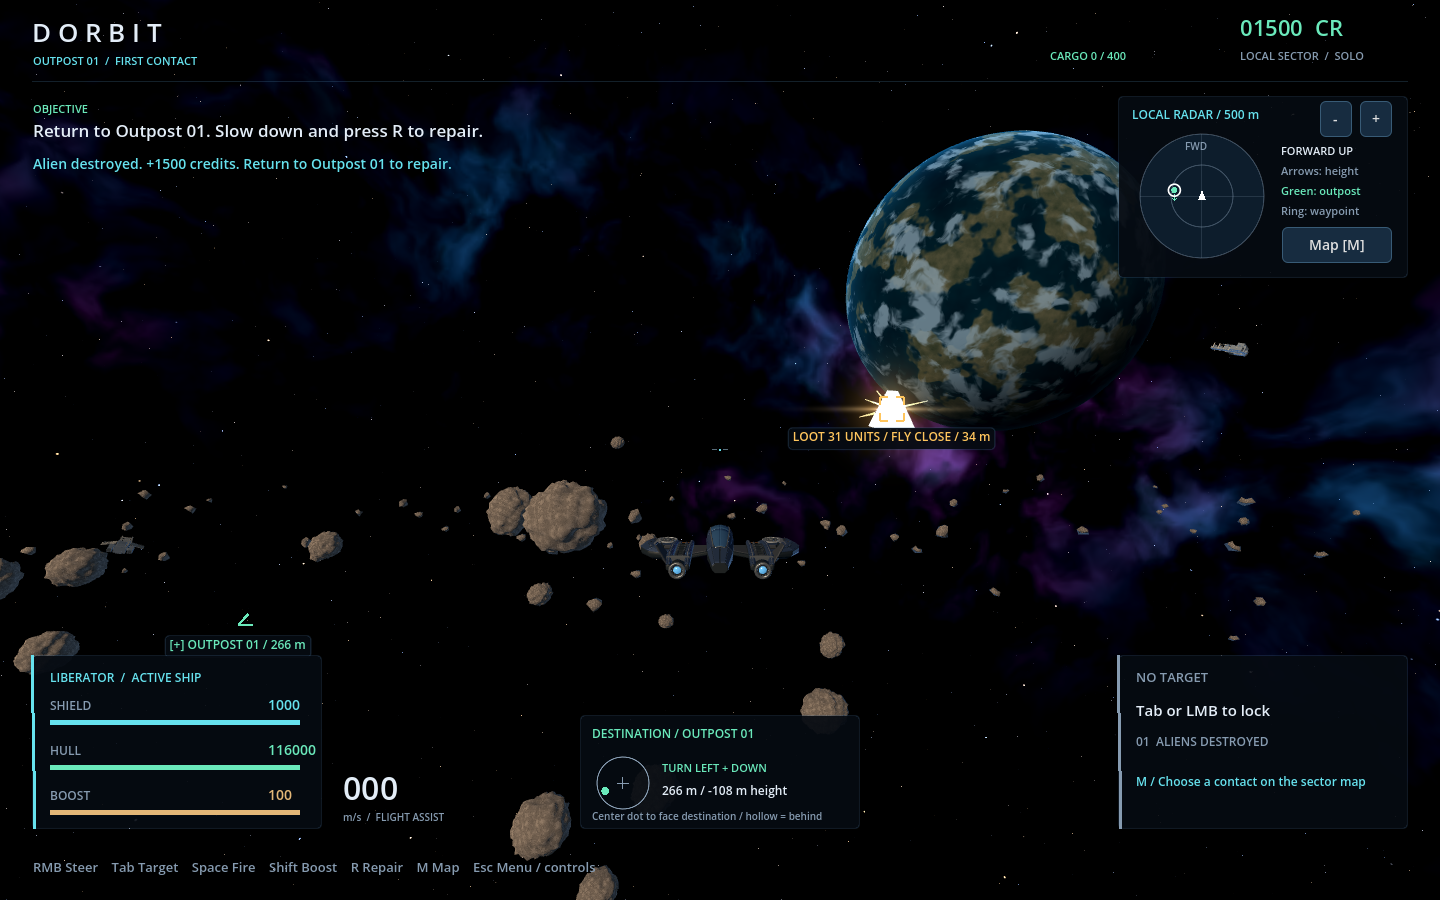
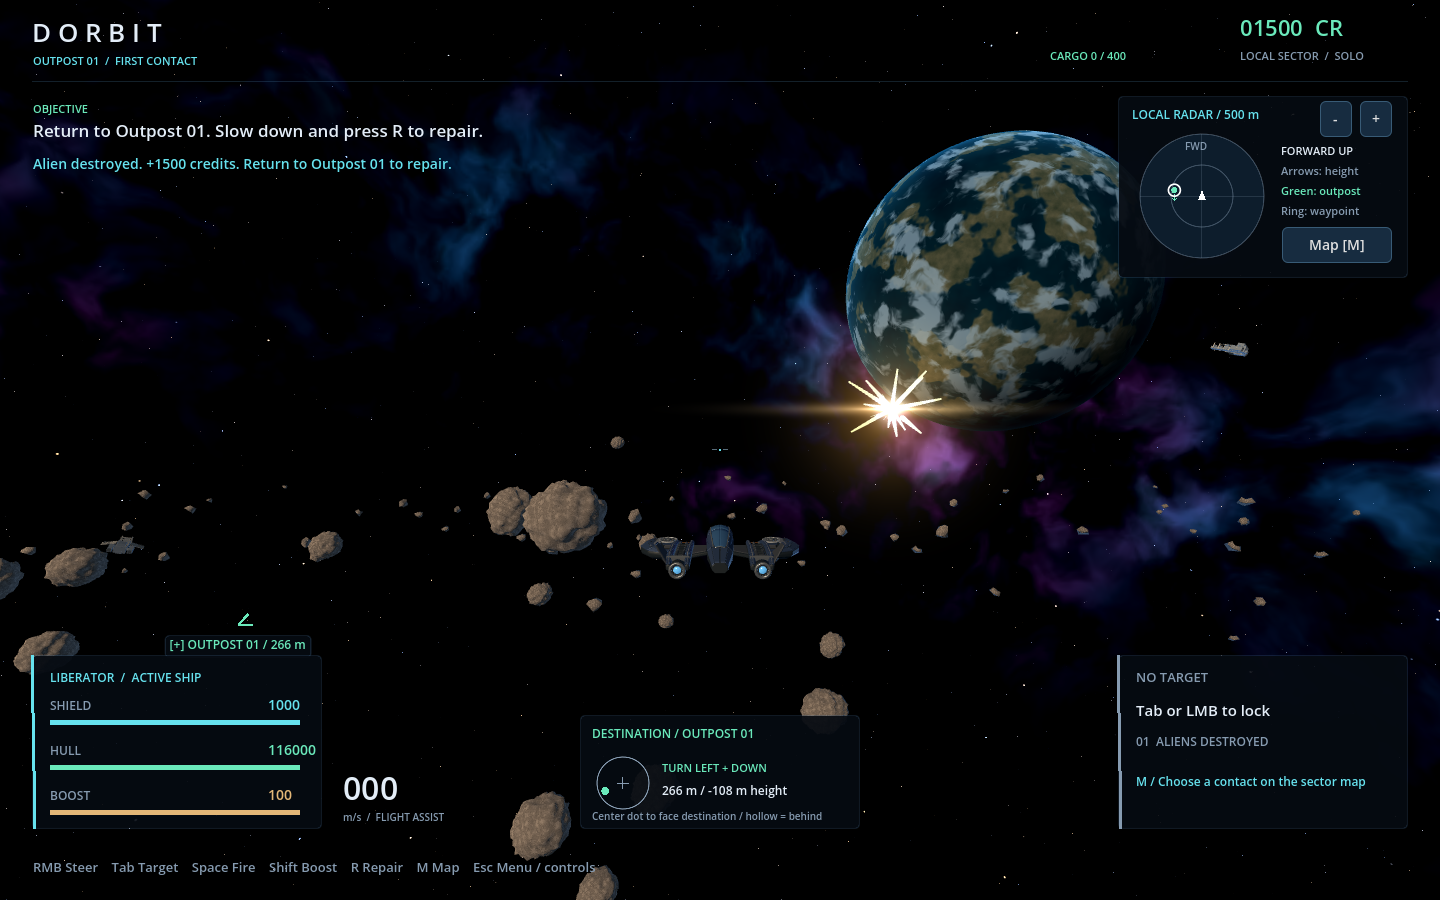
feat: scale destruction blasts and reveal loot afterward

Changed region(s): [[0.5312, 0.3422, 0.7188, 0.56]]

diff --git a/README.md b/README.md
@@ -464,11 +464,13 @@ Review captures: [range](docs/feedback/feedback-range.png), [arc](docs/feedback/
 
 Settings > Audio opens master and effects volume controls and mute. Preferences stay on this device in `user://audio.cfg`. All cues are original procedural PCM generated by `scripts/feedback_audio.gd`; no third-party audio assets or audio attribution are required. Up to six sounds play at once, with per-cue repetition limits and attenuation to silence beyond 350 m.
 
-Lasers now use bright cores, soft additive halos and brief muzzle/contact flashes. Pilot fire is cyan; hostile fire is orange-red. Hits ripple across curved shields and throw hot, cooling sparks from hulls; destruction produces a flash and radial streaks. The effects work in Compatibility rendering without bloom. Each short-lived effect root owns its meshes and animations, with a 64-root ordinary limit and a destruction reserve to 80. Incoming laser cues provide cosmetic contact direction; missing or reordered cues fall back to the camera-facing side. Damage and network rules are unchanged.
+Lasers now use bright cores, soft additive halos and brief muzzle/contact flashes. Pilot fire is cyan; hostile fire is orange-red. Hits ripple across curved shields and throw hot, cooling sparks from hulls. Larger destruction flashes, flares and radial streaks scale to the destroyed ship's modeled diameter and last 1.2 seconds. Scouts produce smaller blasts than Sentinels and Heavies; player hulls use their catalog diameter (3.5 m for Phoenix, 7 m by default). The loot box and its HUD marker appear after the explosion has gone. The effects work in Compatibility rendering without bloom. Each short-lived effect root owns its meshes and animations, with a 64-root ordinary limit and a destruction reserve to 80. Incoming laser cues provide cosmetic contact direction; missing or reordered cues fall back to the camera-facing side. Damage, rewards and loot collection remain unchanged. The reliable destruction cue now carries its diameter, so clients and servers need matching updated builds.
 
-Review the [laser and shield hit](docs/feedback/combat-laser-shield-1440.png), [hull sparks](docs/feedback/combat-laser-hull-1440.png), [incoming fire](docs/feedback/combat-hostile-1440.png) and [destruction](docs/feedback/combat-destruction-1440.png). Run `res://tests/combat_effects_playthrough.gd` with a renderer for fresh 960 x 600 and 1440 x 900 captures under `build/validation`. It exercises real shot validation, shield/hull damage, death and rewards. The headless combat-effects test runs in both check helpers and covers moving hits, death visibility, cleanup, saturated budgets and unchanged combat state.
+Review the [laser and shield hit](docs/feedback/combat-laser-shield-1440.png), [hull sparks](docs/feedback/combat-laser-hull-1440.png), [incoming fire](docs/feedback/combat-hostile-1440.png), [larger destruction](docs/feedback/combat-destruction-1440.png) and [loot revealed afterward](docs/feedback/combat-loot-1440.png). Run `res://tests/combat_effects_playthrough.gd` with a renderer for fresh 960 x 600 and 1440 x 900 captures under `build/validation`. It exercises real shot validation, shield/hull damage, death, rewards and delayed loot presentation. The headless combat-effects test runs in both check helpers and covers moving hits, death visibility, cleanup, saturated budgets, modeled destruction size and unchanged combat state. Resource integration checks cover replicated explosion sizes and loot visibility on real ENet clients.
 
 The October rework passed the full Windows headless check, 12 focused effect assertions, the rendered gallery at both sizes, and 13 rendered protocol/shot assertions. The hunt-and-repair replay passed at 2560 x 1440 with an isolated settings profile (13.42 ms average / 16.05 ms p95). The busy presentation fixture passed its 80-root limit with ten pilot models, one alien, and 100 laser plus 100 impact requests per second at 2560 x 1440 (24.24 ms p95 on AMD Radeon(TM) Graphics). The busy fixture applies VSync and sizing after device settings load, and verifies its actual render size. These are local presentation measurements, not a reference-hardware or multiplayer capacity benchmark. Existing integration fixtures still occasionally emit collinear-up or ObjectDB exit warnings.
+
+The larger-explosion follow-up passed 21 focused effect assertions, 89 resource integration assertions both headlessly and with OpenGL, 75 encounter assertions with an isolated settings profile, and 13 protocol/shot assertions. Rendered captures verify hidden loot during destruction and its reveal afterward at 960 x 600 and 1440 x 900, plus [Scout](docs/feedback/combat-destruction-scout-1440.png) and [Heavy](docs/feedback/combat-destruction-heavy-1440.png) blasts from the same camera and wreck position. The 2560 x 1440 busy fixture retained its effect limit with the longer explosions (23.97 ms p95 on this machine).
 
 On 18 September, alien variety was integrated with the merged feedback changes. Enemy captions use type and slot number; the station and selected target take priority over secondary contacts. The Windows gameplay/network/persistence checks passed, as did the rendered 2560 x 1440 Scout hunt and feedback replay. A separate 60-second run with one rendered client, nine headless clients and a dedicated server kept ten pilots connected: all five aliens fought and died, with overlapping encounters on 33.8% of ticks. The capped 1440 x 900 client averaged 59.97 FPS with 16.82 ms p95 frame time on the RTX A500 Laptop GPU. This is a local integration check, not an internet or reference-hardware benchmark. The busy encounter capture above now shows that run.
 

diff --git a/GAME_PLAN.md b/GAME_PLAN.md
@@ -98,7 +98,9 @@ Implemented for Scout, Sentinel and Heavy encounters during Milestone 3:
 
 Alien feedback integration retains the per-alien reward-share calculation and has passed a rendered ten-client run with all five aliens fighting and dying. Equipment purchase sounds use the server-confirmed transaction revision: failed and duplicate requests do not trigger a cue, and wallet snapshots never infer purchases. Ship models are not a dependency.
 
-The October combat visual rework uses procedural additive shaders in the existing Compatibility renderer, without post-processing bloom or imported effect assets. The ordinary effect budget remains 64 roots, with a destruction reserve up to 80; each root owns a fixed number of short-lived meshes. Incoming shot endpoints supply cosmetic contact direction and surface placement. If a health snapshot arrives before its unreliable laser cue, the hit falls back to the camera-facing side. This does not change shot validation, damage, cooldowns or the network protocol. Glow strength, shield radius and timing remain visual playtesting settings.
+The October combat visual rework uses procedural additive shaders in the existing Compatibility renderer, without post-processing bloom or imported effect assets. The ordinary effect budget remains 64 roots, with a destruction reserve up to 80; each root owns a fixed number of short-lived meshes. Incoming shot endpoints supply cosmetic contact direction and surface placement. If a health snapshot arrives before its unreliable laser cue, the hit falls back to the camera-facing side. Shot validation, damage and cooldowns are unchanged. Glow strength, shield radius and timing remain visual playtesting settings.
+
+Following playtesting, the user requested larger destruction effects that scale to the destroyed ship and reveal loot afterward. Blasts now last 1.2 seconds and scale flash, expansion, flare and debris to the modeled bounding diameter. Scouts are smaller than Sentinels and Heavies; player hulls use their catalog visual diameter (3.5 m for Phoenix, 7 m by default). The server sends the visual diameter in the reliable destruction cue, without creating meshes. Matching updated client/server builds are required by the compatibility handshake. The loot box and its HUD marker remain hidden until all local explosion effects at that wreck have expired. Loot state, expiry, collection and rewards remain authoritative and are not delayed.
 
 The rendered replay covers click/Tab selection, fire-state reasons using real collision geometry, shield/hull hits, rewards and return/repair. Two processes verify 38/37-credit cooperative shares. A ten-pilot presentation fixture checks bounded effects and crowded labels; it is not a multi-alien or network capacity benchmark. See [README.md](README.md#feedback-validation) for evidence and limits.
 
